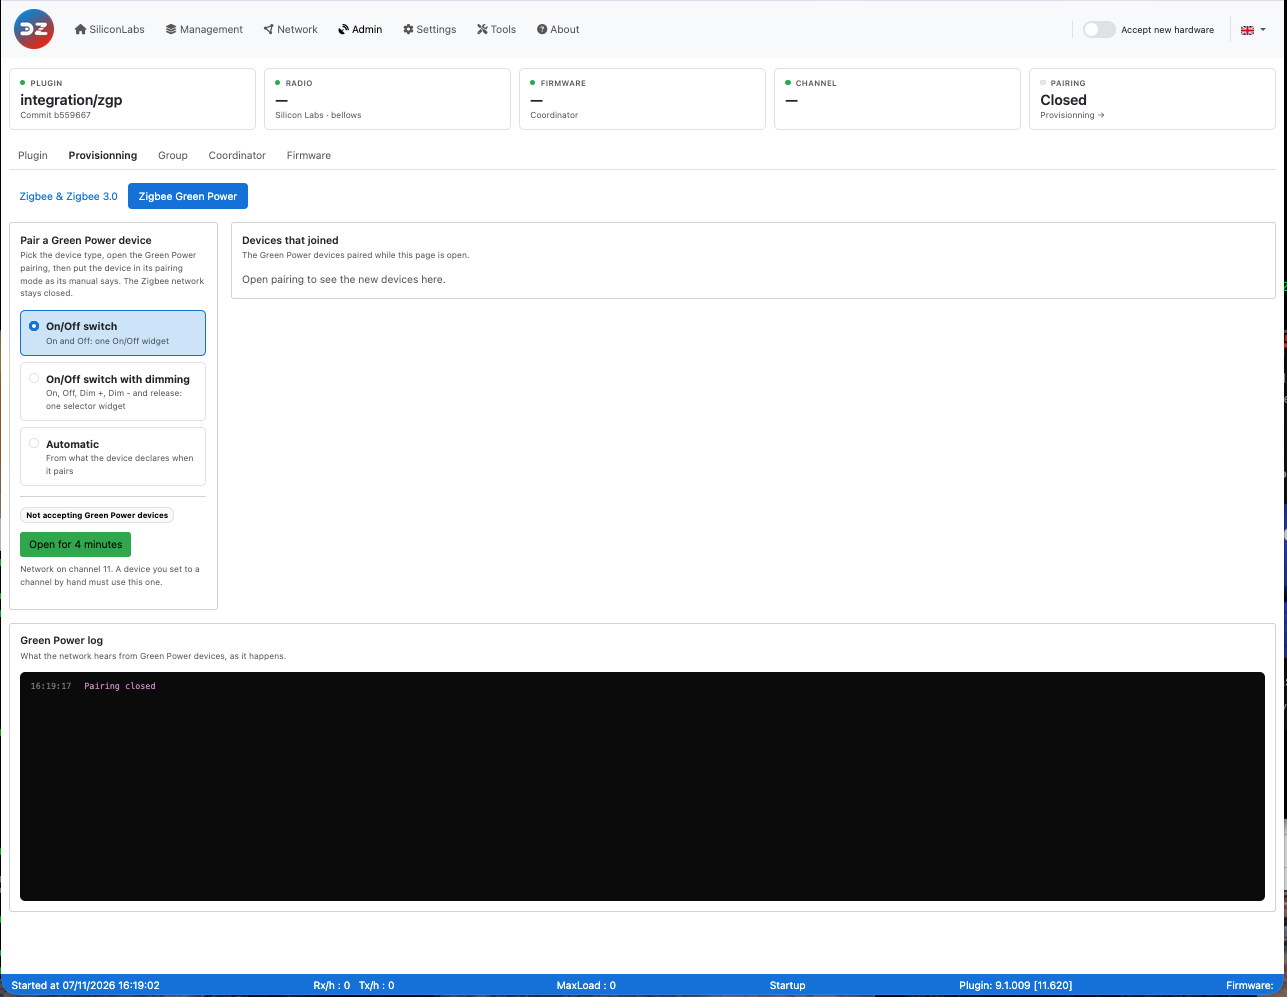
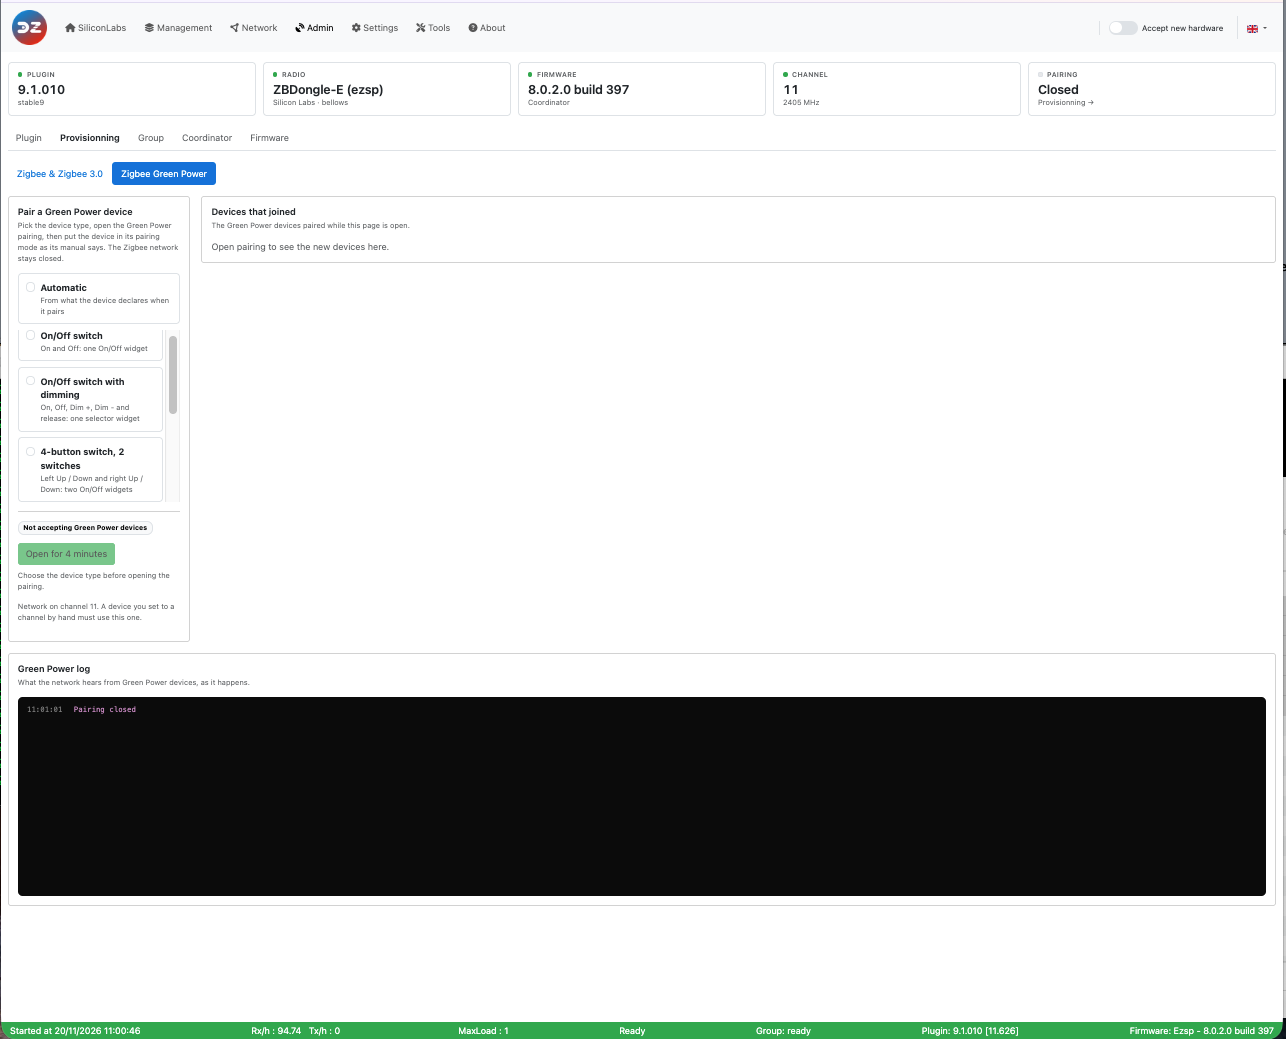
Green Power pairing: align with plugin 9.1.010
- GreenPowerEnable is under Available services, card Features (#2266),
  no longer advanced in the Zigpy section.
- A device without widgets gets its type, or is removed, from its details
  window in Management > Devices (#2255, Domoticz-Zigbee-UI #381); the
  rows were described as read-only.
- Screenshots of the 9.1.010 page: device types in a scrolling list,
  Automatic first (UI #382, #383).

Claude-Session: https://claude.ai/code/session_017BKZpJtbN6oJB7RGDkBQzA

diff --git a/en-eng/HowTo_Pair-Green-Power-device.md b/en-eng/HowTo_Pair-Green-Power-device.md
@@ -42,7 +42,7 @@ Choose the type before opening the pairing: the device paired during that pairin
 | **4-button switch, single rocker** | One On/Off switch | The same switch fitted with one wide rocker, *Up* and *Down* |
 | **Automatic** | From what the device declares | A device that gives its model or its commands |
 
-A device keeps its type when it is paired again. To change the type of a paired device, [remove it](#remove-a-green-power-device), then pair it again with the new type.
+A device keeps its type when it is paired again. A paired device that got **no widget** (no configuration matched it) can be given its type afterwards, without a new pairing: see [Check a paired device](#check-a-paired-device). To change the type of a device that has widgets, [remove it](#remove-a-green-power-device), then pair it again with the new type.
 
 ## Pairing
 
@@ -54,7 +54,7 @@ A device keeps its type when it is paired again. To change the type of a paired 
 1. As soon as the log shows **Paired**, **take the device out of its pairing mode**, as its manual says (often: press another button). Left in its pairing mode, some devices change channel at the next press, and the network no longer hears them.
 1. The log then shows **Widgets created**, and the device appears in **Devices that joined** as *Paired*, with its model and its widget.
 
-![A Sunricher switch paired as an On/Off switch with dimming, then used](Images/EN_WebUI-Admin-Provisioning-GreenPower.png)
+![The Green Power pairing open, as an On/Off switch: the log shows what the network hears](Images/EN_WebUI-Admin-Provisioning-GreenPower.png)
 
 ### What the Green Power log tells you
 
@@ -73,7 +73,7 @@ A device keeps its type when it is paired again. To change the type of a paired 
 
 ### Green Power with the Zigbee pairing
 
-The setting **Accept Green Power devices when pairing is open** (`GreenPowerEnable`, *Settings*, advanced, *Zigpy* section) only concerns the **Zigbee & Zigbee 3.0** page and the *Accept new hardware* switch of the menu bar: when it is on, opening the Zigbee pairing also opens the Green Power pairing, without a device type (*Automatic*). The Green Power page does not need it.
+The setting **Accept Green Power devices when pairing is open** (`GreenPowerEnable`, *Settings*, *Available services*, card *Features*; before plugin 9.1.010: advanced, *Zigpy* section) only concerns the **Zigbee & Zigbee 3.0** page and the *Accept new hardware* switch of the menu bar: when it is on, opening the Zigbee pairing also opens the Green Power pairing, without a device type (*Automatic*). The Green Power page does not need it.
 
 ## Sunricher ZGP2801K2-DIM
 
@@ -119,7 +119,8 @@ The switch declares neither its manufacturer, its model nor its commands, so *Au
 
 ## Check a paired device
 
-* **Management > Devices** lists the Green Power devices with the other devices; the *Green Power* chip shows them alone. Each row shows the model and the widgets, the source ID and the IEEE, the LQI of the last frame, and when the device was last heard. The rows are read-only: no details, no name, no parameters, no removal there (see [Remove a Green Power device](#remove-a-green-power-device)).
+* **Management > Devices** lists the Green Power devices with the other devices; the *Green Power* chip shows them alone. Each row shows the model and the widgets, the source ID and the IEEE, the LQI of the last frame, and when the device was last heard. Open a Green Power device to see its details: source ID, Green Power device type, manufacturer and model ID, commands, the device type it was paired as, its widgets, the security level, the frame counter, and when it was commissioned and last heard. There is no name and no parameter to change there.
+* **A device without widgets** is marked *No widget* in the list. Its details window lets you **choose its device type**: click *Create the widgets*, and the plugin creates them within a minute, with no new pairing. The same window can **remove** it (see [Remove a Green Power device](#remove-a-green-power-device)).
 * **Dashboard**: the Green Power devices have a *Green Power* segment of their own in *Plugin devices* and in *Type of devices*. The plugin never sends a Green Power device anything, so it has no health status, and a battery-free switch can stay silent for days. So *Devices live* counts a Green Power device as fine, never as a problem: one Green Power switch alone shows *1 / 1*, with *including Green Power: 1 (not polled)*.
 * **Tools > Data > Green Power devices (raw)** shows what the plugin keeps for each Green Power device: its ID, its device type, the security level, the last frame counter, its model and its widgets. The security key of the device is never shown.
 
@@ -130,5 +131,7 @@ A Green Power device **never appears in a topology report** (*Network > Topology
 ## Remove a Green Power device
 
 Delete its widget in Domoticz (*Setup > Devices*). When the last widget of a Green Power device is deleted, the plugin removes the device from its list and from the network.
+
+A Green Power device **without widgets** has nothing to delete in Domoticz: remove it from its details window, in *Management > Devices* (plugin 9.1.010 and later).
 
 To pair it again, follow [Pairing](#pairing) from the start.
